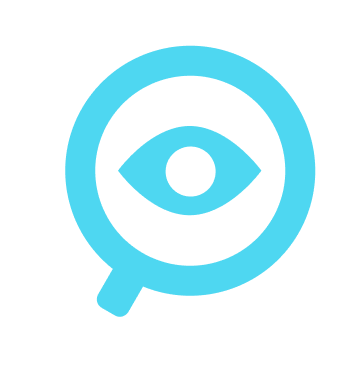
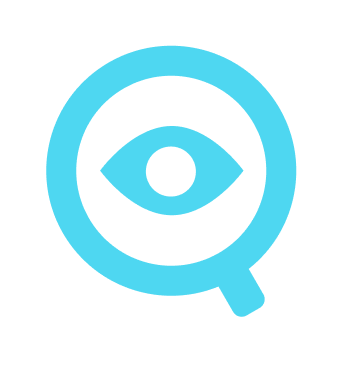
update
added new assets and replaced some old ones

Changed region(s): [[0.1219, 0.1173, 0.8837, 0.8507]]

diff --git a/src/index.php b/src/index.php
@@ -10,7 +10,7 @@
     <meta name="viewport" content="width=device-width, initial-scale=1.0">
     <title>HomePage</title>
     <link rel="stylesheet" href="css/main.css">
-    <link rel="icon" type="image/x-icon" href="assets/images/magnify glass_blue.png">
+    <link rel="icon" type="image/x-icon" href="assets/images/magnify glass_darkBlue.png">
 </head>
 <body>
     <header>
